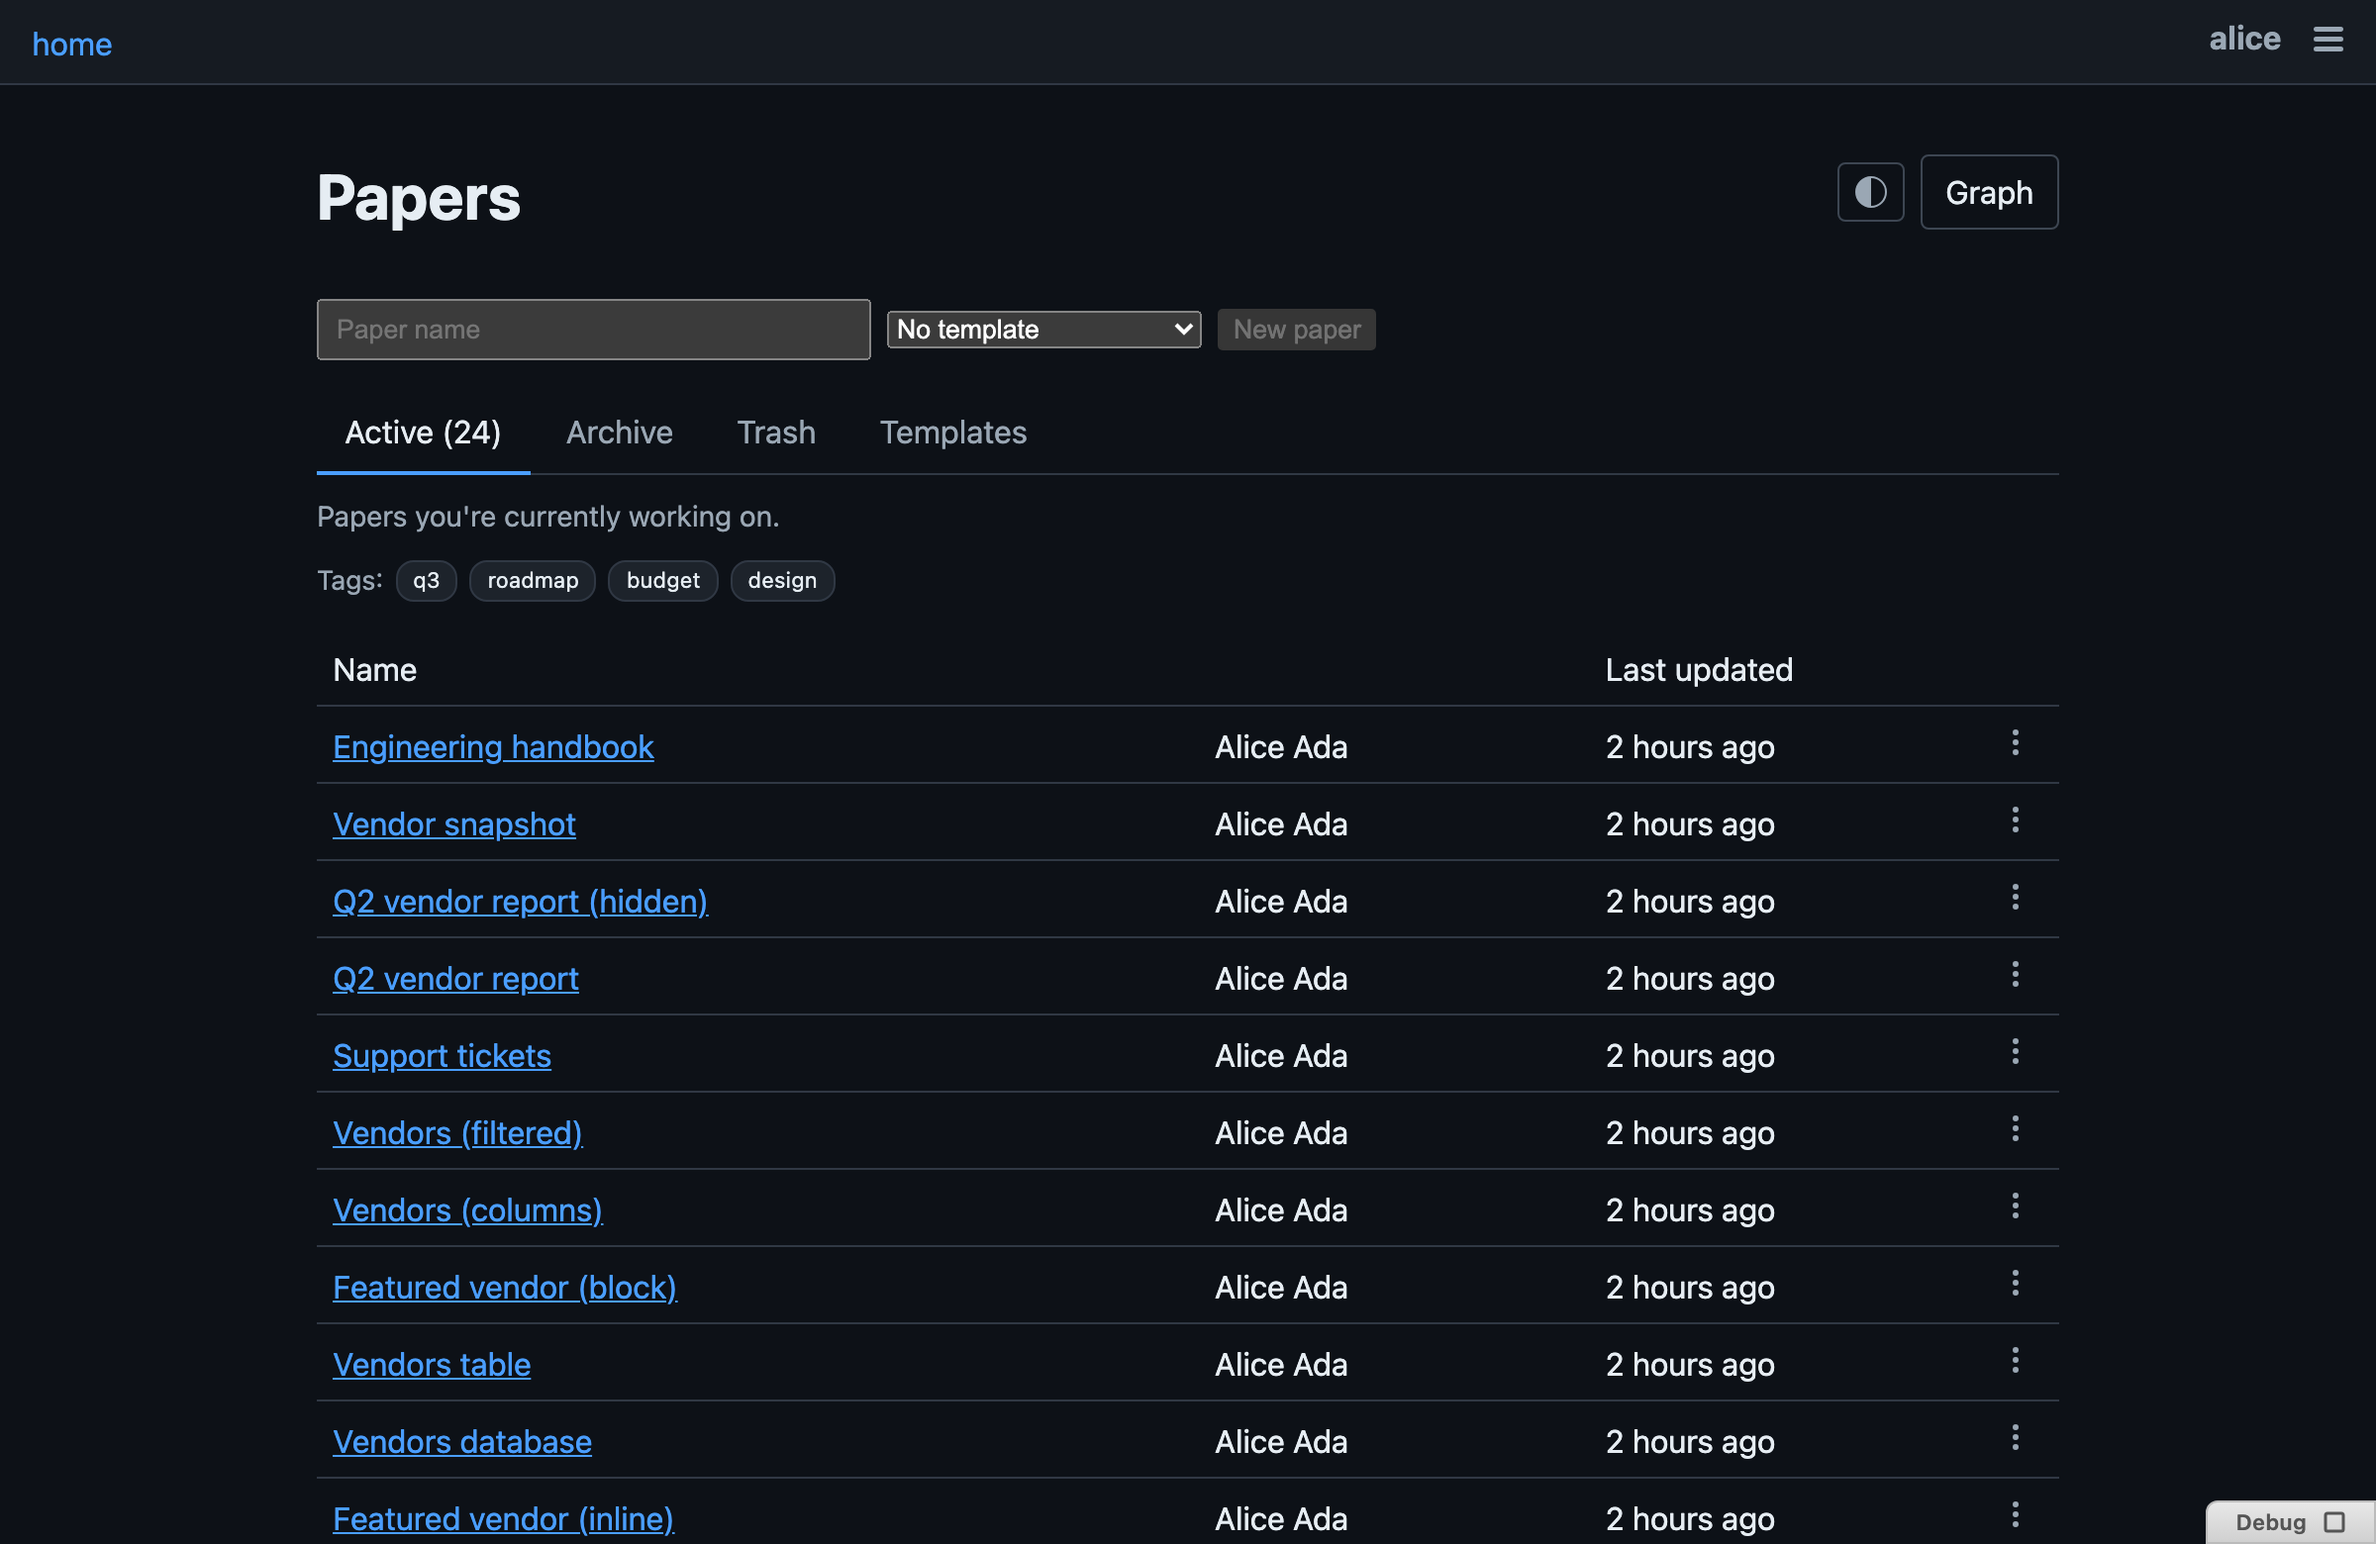
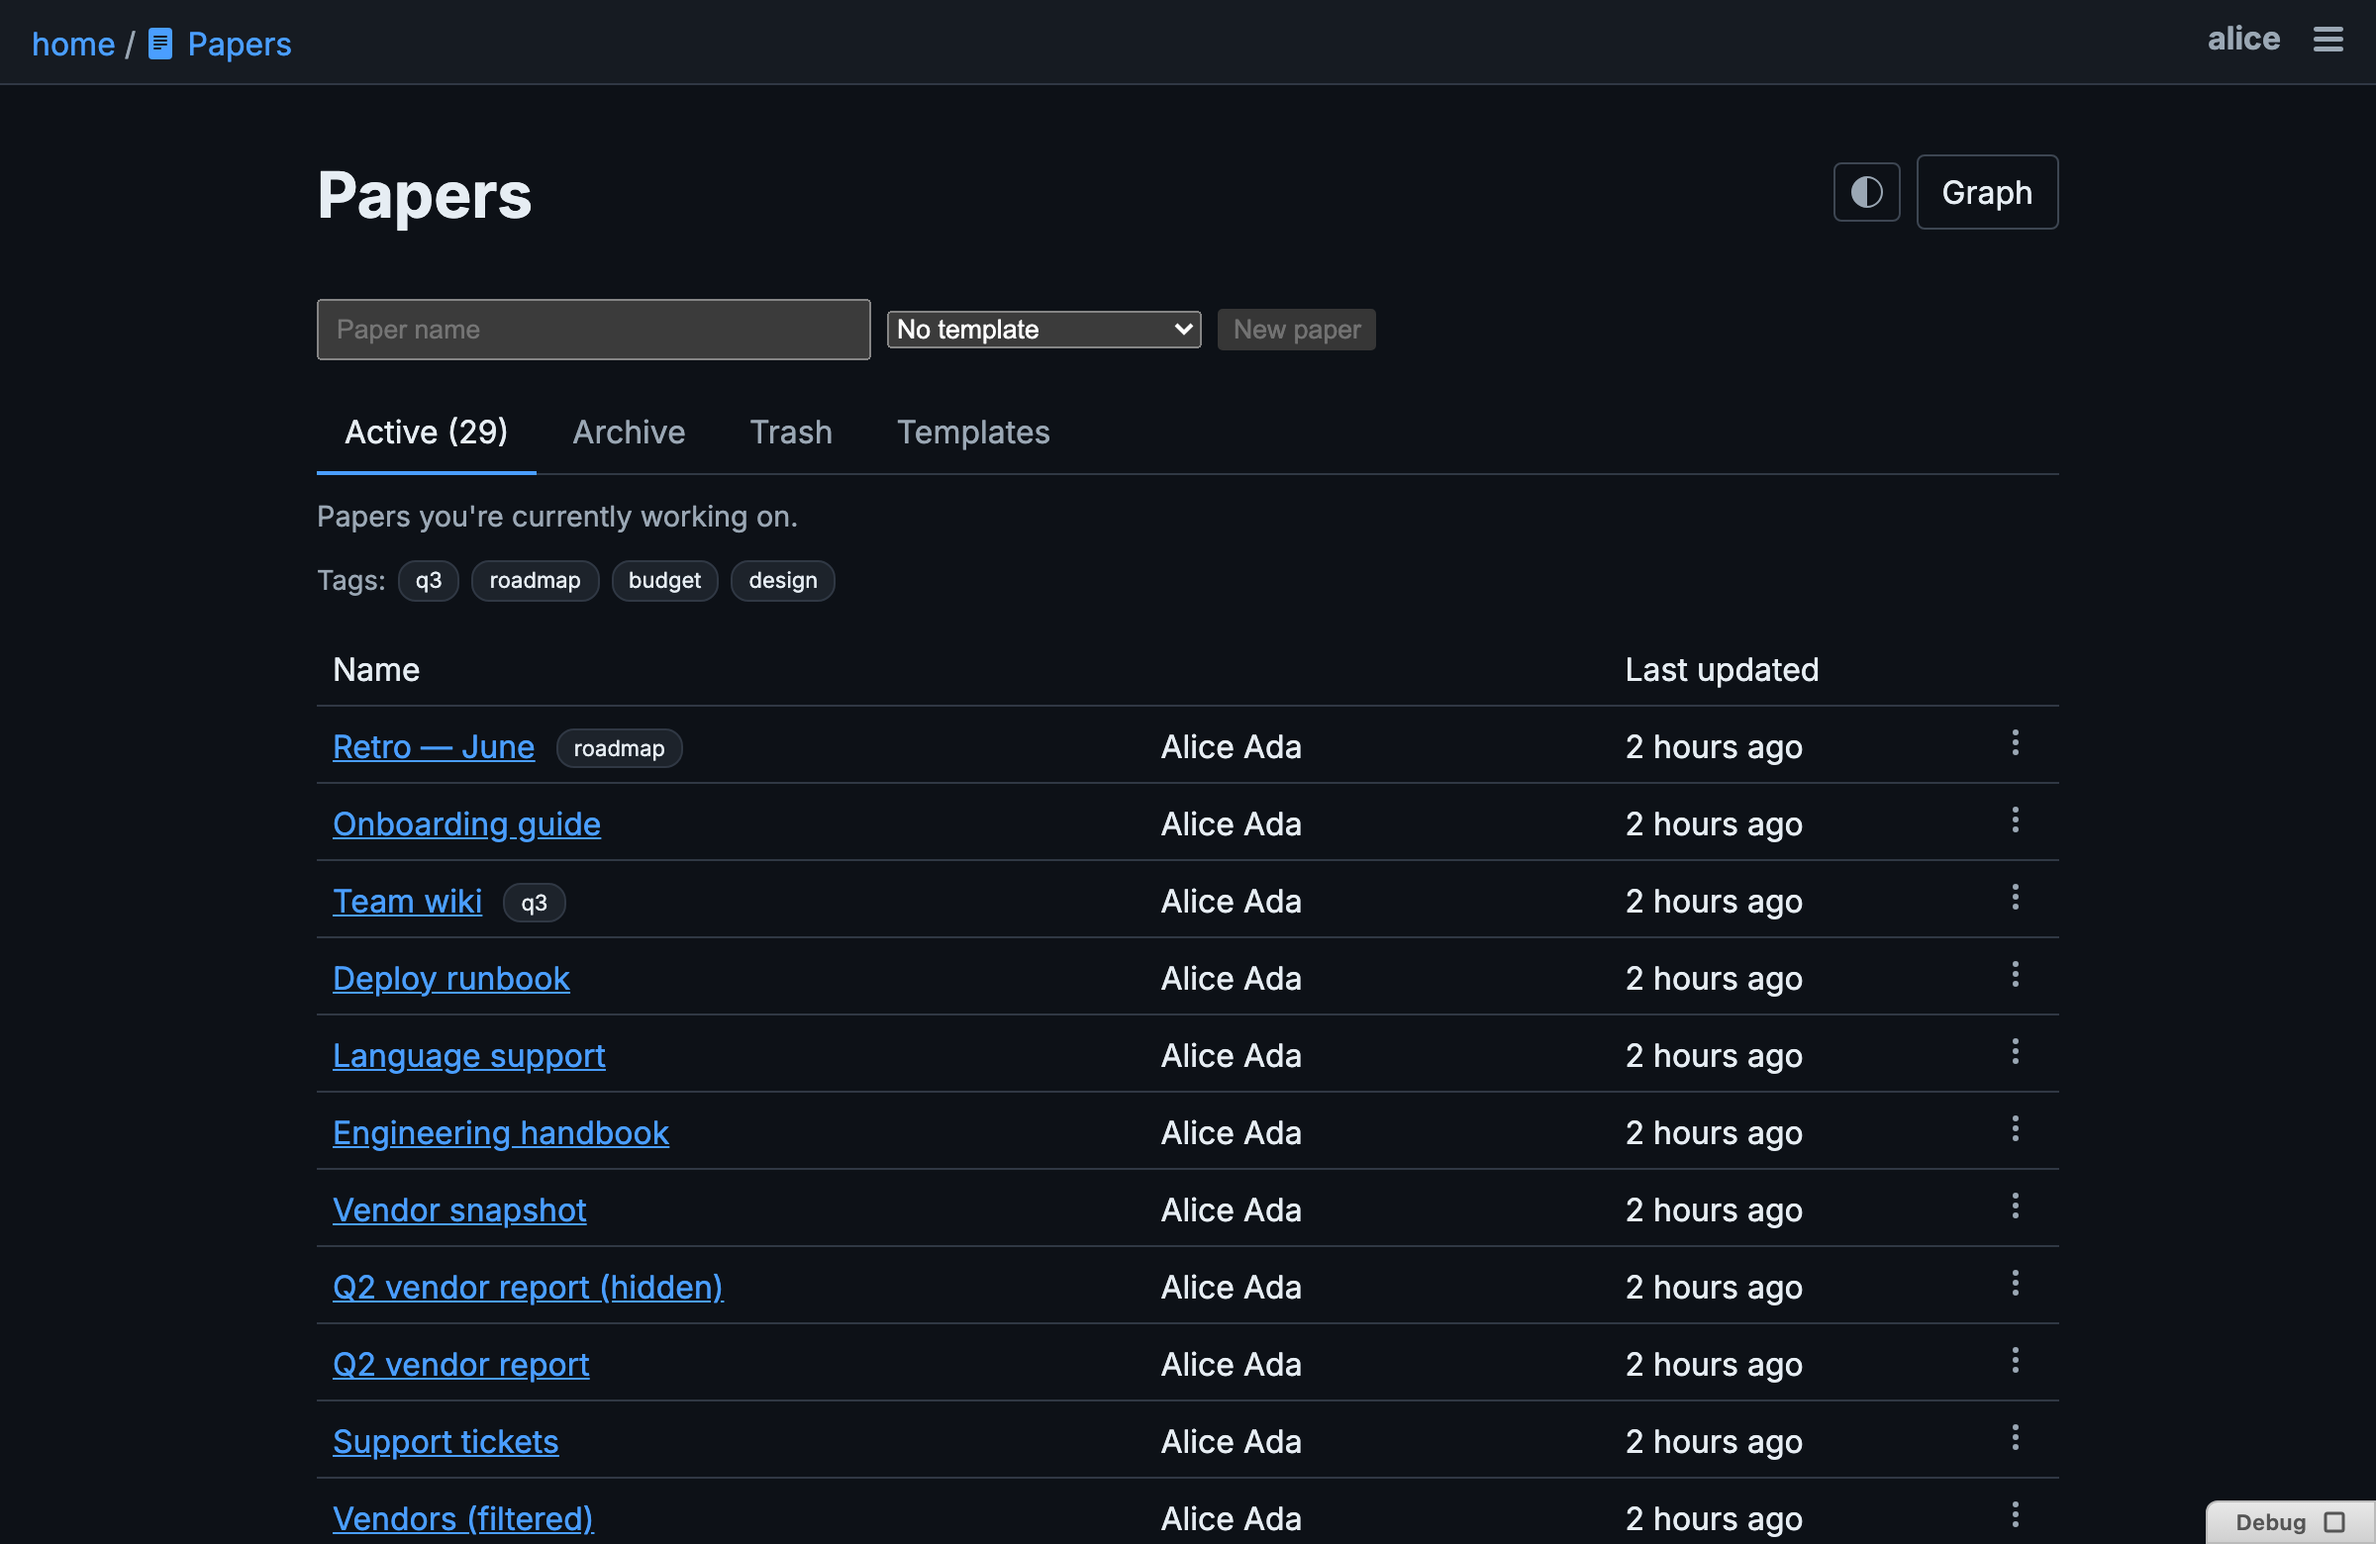
Link graph: screenshots + README section
Seed a wiki-link cluster (three docs whose markdown [[id]] links are
indexed at create time) and add two shot defs: the index modal colored
by tag with the hub selected, and the doc-centred ego view. Layouts are
made reproducible by emulating reduced motion (synchronous settle) and
stubbing Math.random with a seeded LCG for the seedPositions jitter;
the selection panel's relative "Updated" time is frozen. The index
PNGs are re-captured since the cluster docs top the Active tab.

diff --git a/README.md b/README.md
@@ -38,6 +38,20 @@ And a paper index listing everyone's papers with author and last-edited time:
 
 <p align="center"><picture><source srcset="docs/screenshots/index.dark.png" media="(prefers-color-scheme: dark)"><img src="docs/screenshots/index.png" alt="The paper index: a table of papers with name, creator and updated time, plus tabs for Active / Archive / Trash / Templates." width="800"></picture></p>
 
+The **link graph** turns those `[[wiki links]]` into an interactive map of the
+workspace — force-directed and zoomable, with nodes colored by tag / state /
+kind (the legend doubles as a filter), sized by connections or recency, and a
+metadata panel for the selected paper. Every paper also gets a doc-centred ego
+view from its sidebar: just that paper's neighbourhood, sliceable to an
+adjustable link depth:
+
+<table>
+<tr>
+<td><picture><source srcset="docs/screenshots/link-graph.dark.png" media="(prefers-color-scheme: dark)"><img src="docs/screenshots/link-graph.png" alt="The link graph modal: a force-directed graph of papers colored by tag with a legend filter, search, and a metadata panel showing the selected paper's kind, state, links and tags."></picture></td>
+<td><img src="docs/screenshots/link-graph-ego.png" alt="The doc-centred ego view: the focus paper ringed at the centre of its depth-1 neighbourhood, with a Depth selector to widen the slice."></td>
+</tr>
+</table>
+
 Drop inline **`#tags`** anywhere in a paper's body — type `#` for an
 autocomplete of existing tags. Clicking a tag opens a results page listing
 every paper whose body mentions it:
